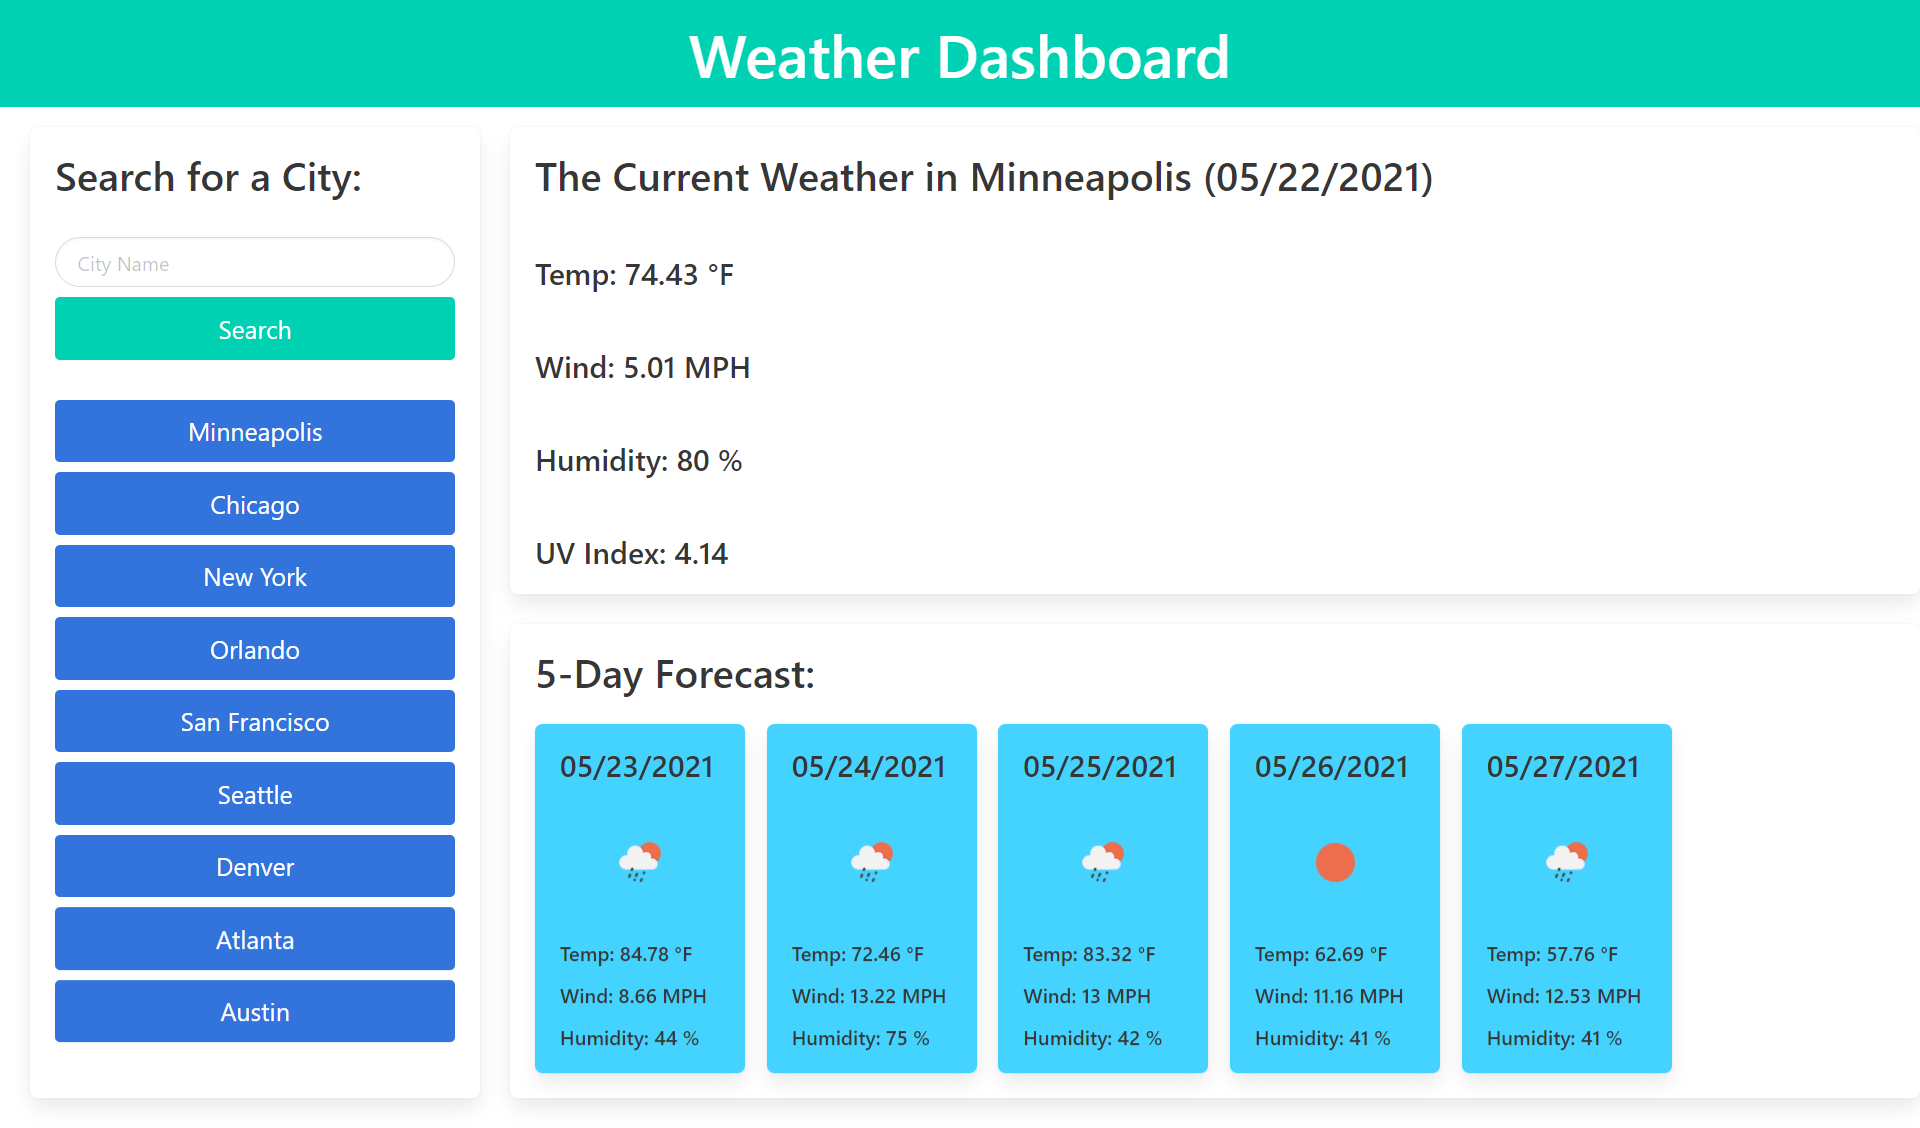
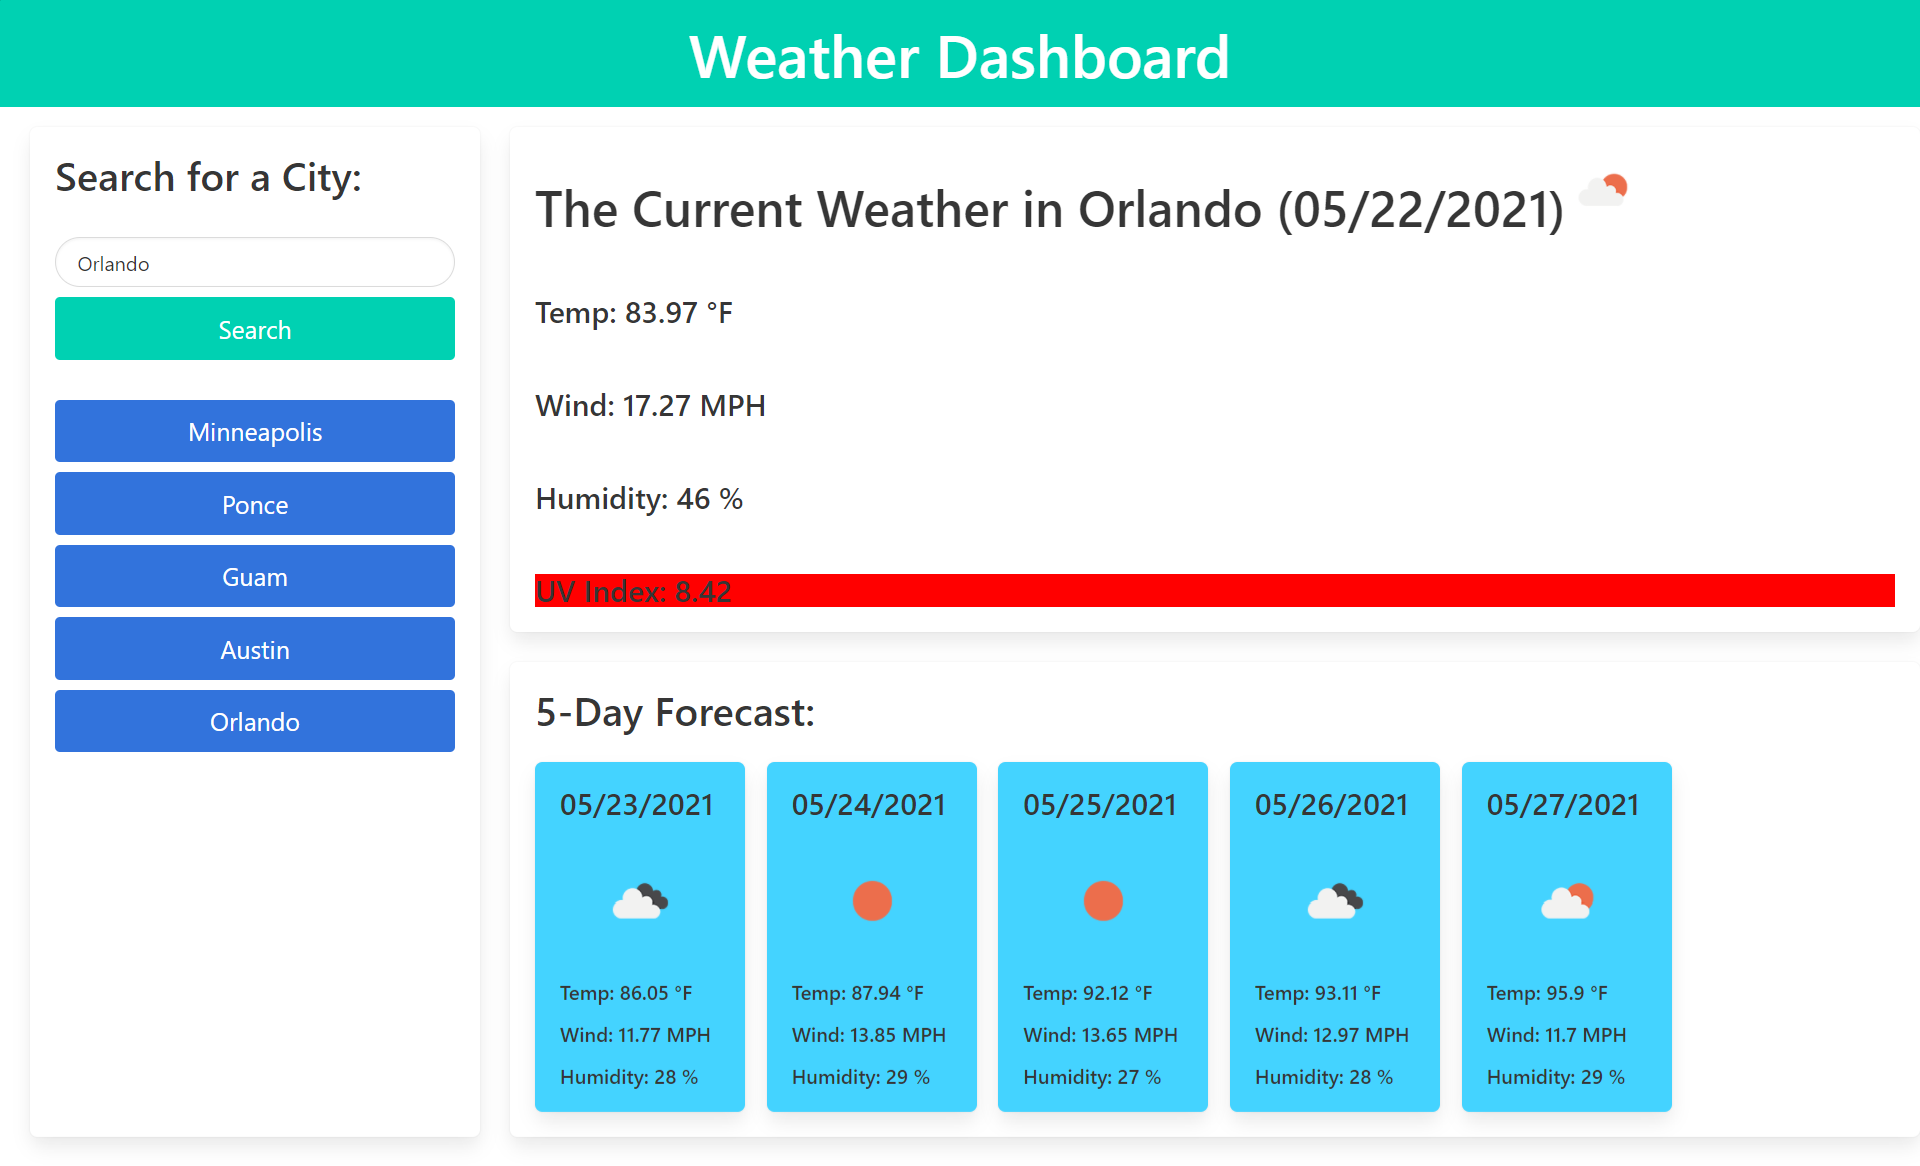
more fixing bugs and updateing the readme file

diff --git a/assets/js/script.js b/assets/js/script.js
@@ -57,17 +57,17 @@ function getApi(){
                 function uviColor() {
                   let color = data.current.uvi;
                   console.log(typeof color)
-                  if (color <= 2) {
+                  if (color < 2) {
                     currentUvEl.style.backgroundColor = "green"
-                  } else if (color > 2 && color <= 5) {
+                  } else if (color >= 2 && color < 5) {
                     currentUvEl.style.backgroundColor = "yellow"
-                  } else if (color > 5 && color <= 7) {
+                  } else if (color >= 5 && color < 7) {
                     currentUvEl.style.backgroundColor = "orange"
-                  } else if (color > 7 && color <= 10) {
+                  } else if (color >= 7 && color < 11) {
                     currentUvEl.style.backgroundColor = "Red"
-                  } else (color > 10) 
+                  } else if (color >= 11) {
                     currentUvEl.style.backgroundColor = "Violet"
-                  return;
+                  } return;
                 }; 
                 uviColor();
                 

diff --git a/README.md b/README.md
@@ -6,7 +6,7 @@
 
 ## Usage
 
-    On the webpage you will see the current weather iunformation like date, temperature, wind speed, humidity and UV index on the top right side of the page and it will will change the information if you click any of the buttons with different citys on the left side, also you can input the name of the city on the top right section and it will laso display it. In adition to the current information it will also give you a 5 fau forecast of the current city with the temperature, wind speed and humidity.
+    On the webpage you will see the current weather iunformation like date, temperature, wind speed, humidity and UV index (for the uv index it will display a background color indicating whether the conditions are favorable, moderate, or severe) on the top right side of the page and it will will change the information if you click for a new city it will save the new city as a button on the left side and if you click any of the buttons of the past cities on the left side, it will display the information back again. In adition to the current information it will also give you a 5 day forecast of the current display city with the temperature, wind speed and humidity.
 
 ## Links & Screenshots
 
